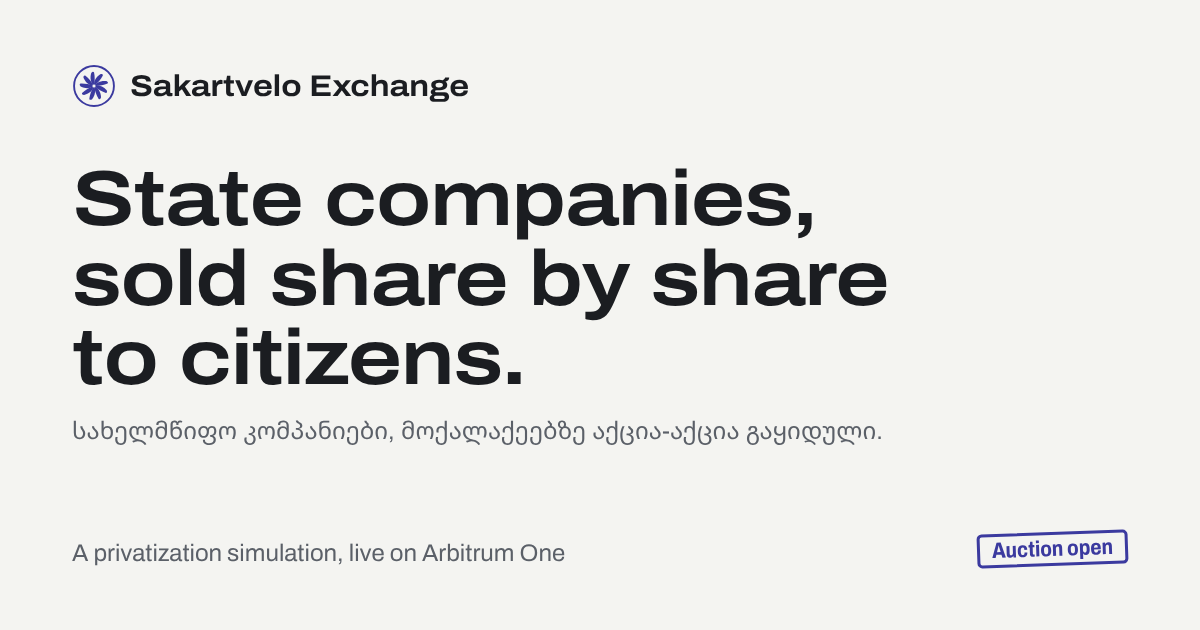
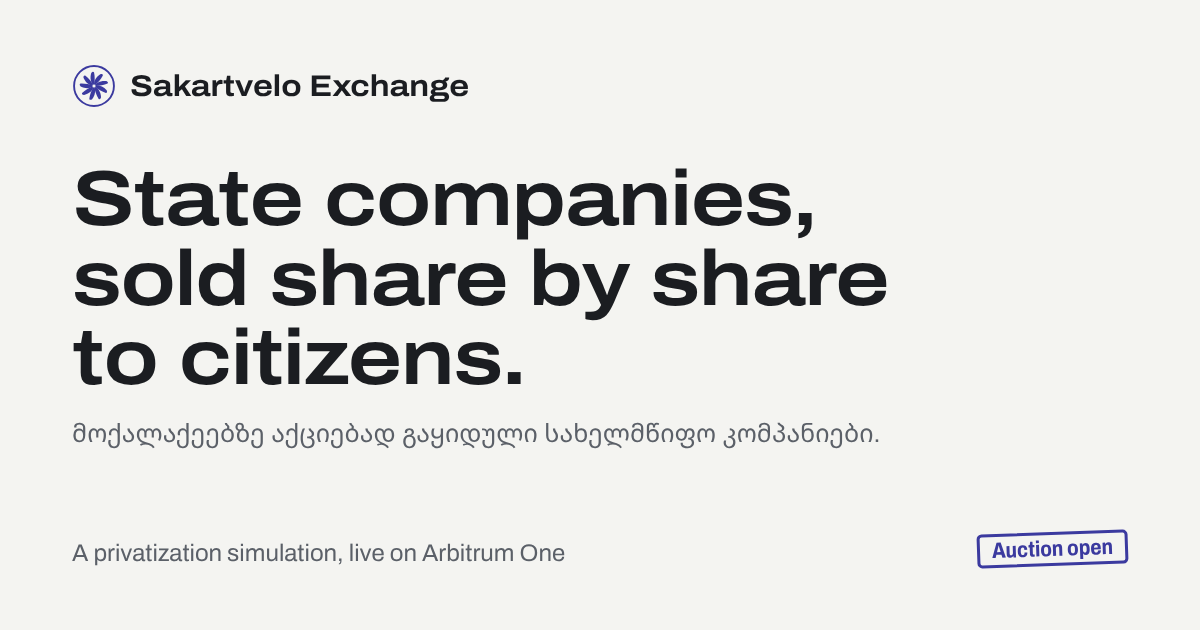
Brand images in the register colours (stamp violet on paper); Georgian cover, post and thumbnail
Claude-Session: https://claude.ai/code/session_01EESBiKfppsJ211HJXDWywN

Changed region(s): [[0.0617, 0.6635, 0.74, 0.7238]]

diff --git a/brand/README.md b/brand/README.md
@@ -1,0 +1,36 @@
+# Brand
+
+The site is a public register: plain paper, near-black type, and one ink,
+the violet-blue of an official rubber stamp. The mark is the nine-eyed sun
+(ცხრათვალა მზე).
+
+## Colours
+
+| Name | Light | Dark | Use |
+|---|---|---|---|
+| Paper | `#F4F4F1` | `#15161A` | Background |
+| Ink | `#1B1D21` | `#E9E9EC` | Text |
+| Graphite | `#5B6068` | `#A0A3AB` | Secondary text |
+| Rule | `#D3D4D6` | `#30323A` | Lines |
+| Stamp | `#3B3A9F` | `#ABA8F2` | The mark, stamps, actions |
+| Stamp wash | `#E7E6F5` | `#25244A` | Tinted panels |
+| On stamp | `#FBFBF9` | `#15161A` | Text and mark on a stamp-coloured fill |
+
+## Type
+
+Archivo (variable, the `wdth` axis wide for headlines) and Noto Sans
+Georgian. Both are free (SIL Open Font License).
+
+## Files
+
+| File | Size | Where |
+|---|---|---|
+| `sakartvelo-icon-256.png` | 256×256 | Profile pictures, app icon (same as the favicon) |
+| `invest-logo-200.png` | 200×200, round, transparent | Token logo for wallets, explorers and listings |
+| `facebook-cover-1640x624.png` | 1640×624 | Facebook page cover (Georgian) |
+| `launch-post-1080x1080.png` | 1080×1080 | Facebook / Instagram launch post (Georgian) |
+| `sakartvelo-banner-1920x384.png` | 1920×384 | X, LinkedIn, YouTube banner |
+| `youtube-thumbnail-1280x720.png` | 1280×720 | YouTube thumbnail (English) |
+| `youtube-thumbnail-ka-1280x720.png` | 1280×720 | YouTube thumbnail (Georgian) |
+
+The site's link preview image is `site/public/og-image.png`.
